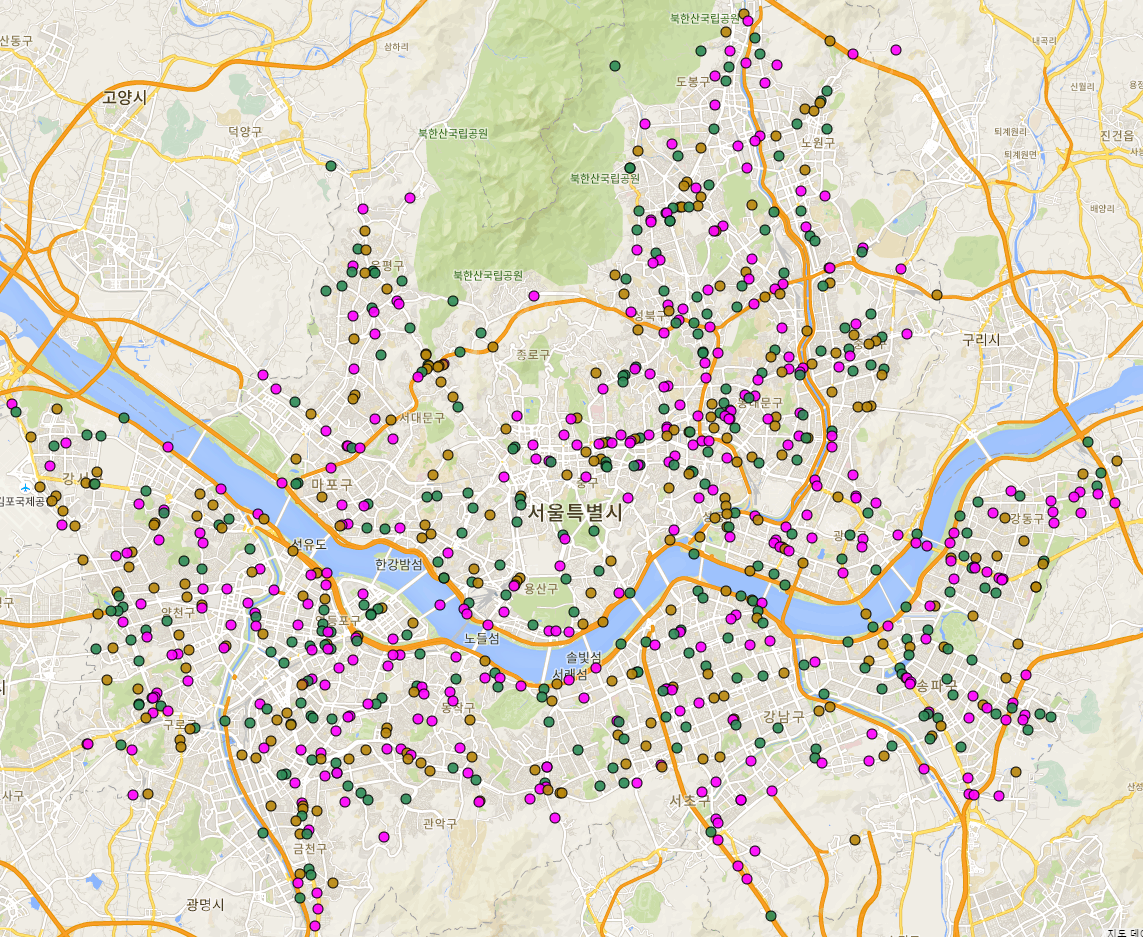
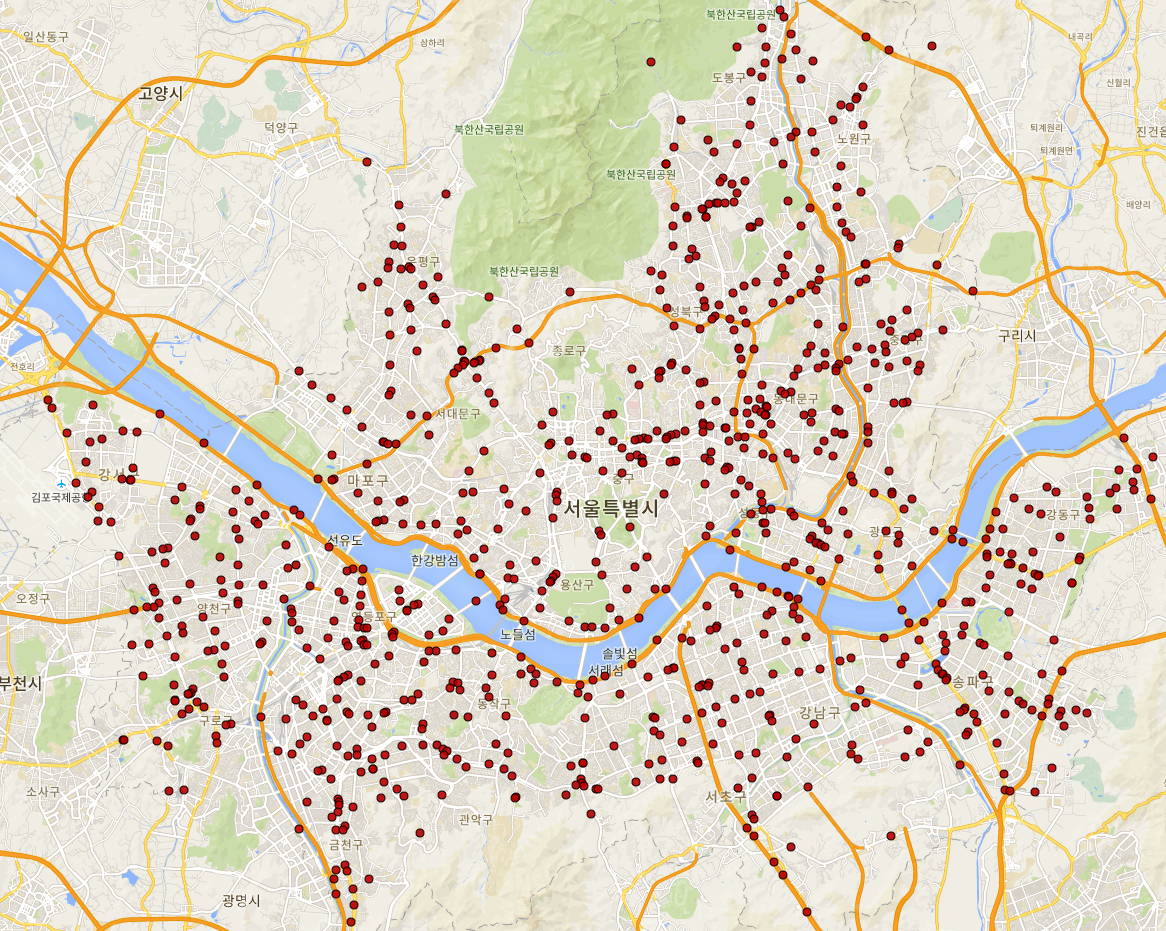
12/02 project finished

diff --git a/src/App.js b/src/App.js
@@ -2,7 +2,6 @@ import "./App.css";
 import Card from "./components/Card";
 import Button from "./components/Buttons";
 
-import Data from "./Routes/Data";
 import Dv1 from "./Routes/Dv1";
 import Dv2 from "./Routes/Dv2";
 import Result from "./Routes/Result";
@@ -12,6 +11,7 @@ import { BrowserRouter, Route, Link, Switch } from "react-router-dom";
 
 const Container = styled.div`
   display: flex;
+  position: relative;
 `;
 
 function App() {
@@ -20,9 +20,6 @@ function App() {
       <Container>
         <BrowserRouter basename="/DV2">
           <Card width="200px" height="700px" fd="column">
-            <Link to="/data">
-              <Button primary>데이터</Button>
-            </Link>
             <Link to="/dv1">
               <Button primary>시각화 1</Button>
             </Link>
@@ -35,7 +32,6 @@ function App() {
           </Card>
           <Card width="800px" height="700px" margin_left="50px">
             <Switch>
-              <Route path="/data" exact component={Data} />
               <Route path="/dv1" exact component={Dv1} />
               <Route path="/dv2" component={Dv2} />
               <Route path="/result" component={Result} />

diff --git a/src/Routes/Dv2.js b/src/Routes/Dv2.js
@@ -1,7 +1,21 @@
-import React from 'react';
+import React from "react";
+import image2 from "../Assets/Images/2.png";
+import image3 from "../Assets/Images/3.png";
+import styled from "styled-components";
+
+const StyledI = styled.img`
+  position: absolute;
+  top: 60px;
+  right: 0px;
+`;
 
 export function Dv2(props) {
-  return <div>asd2</div>;
+  return (
+    <>
+      <img src={image2} alt="" width="800px" height="600px"></img>
+      <StyledI src={image3} alt="" />
+    </>
+  );
 }
 
 export default Dv2;

diff --git a/src/Routes/Dv1.js b/src/Routes/Dv1.js
@@ -1,16 +1,8 @@
 import React from "react";
+import image1 from "../Assets/Images/1.png";
 
 export function Dv1(props) {
-  return (
-    <iframe
-      src="https://maps.co/embed/5fc750a3261c97585805212e7f0c"
-      width="800"
-      height="600"
-      frameborder="0"
-      allowfullscreen
-      title="DV1"
-    ></iframe>
-  );
+  return <img src={image1} alt="" width="800px" height="600px" />;
 }
 
 export default Dv1;
